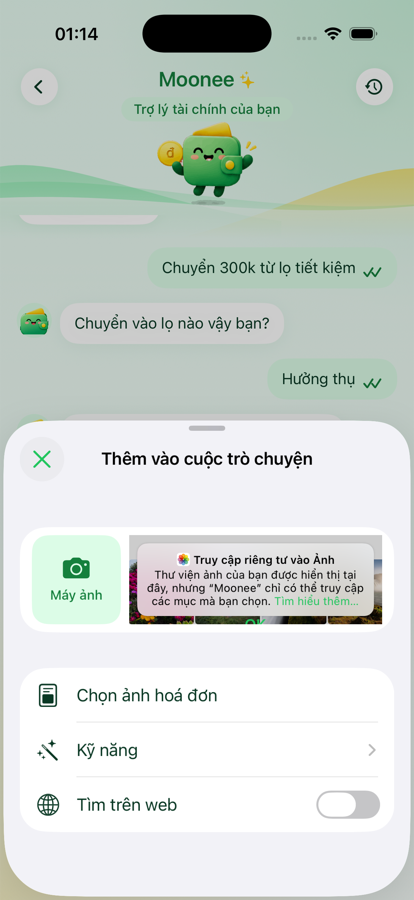
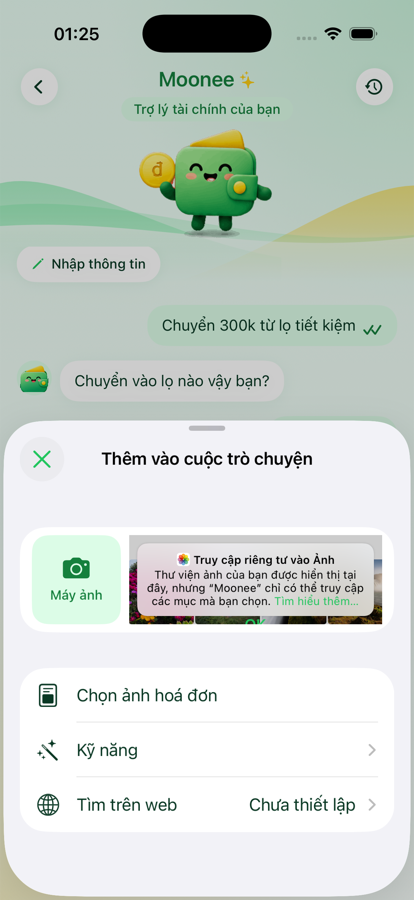
Chat: use S3's search/effort/skills API (#26), drop the shim
- Assistant gets the user's skills (SkillCatalog(context)).
- Model chip: efforts from LLMSettings.supportedEffortsNow, choice in
  LLMSettings.effort (per provider + model).
- (+) sheet: S3's SkillsView; web search row shows S3's setup state and opens
  AI settings (search has no on/off switch of its own).
- No model: webSearch / marketPrice facts become Moonee text, and the search
  hits become source chips (ChatMessage.sources is [SearchHit]).

diff --git a/Moonee/Features/Chat/ChatComposer.swift b/Moonee/Features/Chat/ChatComposer.swift
@@ -121,17 +121,19 @@ struct ChatComposer: View {
 /// "DeepSeek · Medium": the model answering, with its reasoning effort. Tap to change the effort or the model.
 struct ModelChip: View {
     let onChangeModel: () -> Void
-    @AppStorage(LLMSettings.effortKey) private var effortRaw = ReasoningEffort.medium.rawValue
+    /// Effort is stored per provider + model (`LLMSettings.effort`); bumped to redraw after a change.
+    @State private var changes = 0
     // Read so the chip updates when AI settings change.
     @AppStorage(LLMSettings.modeKey) private var modeRaw = ""
     @AppStorage(LLMSettings.cloudKey) private var cloudRaw = ""
 
     var body: some View {
-        let efforts = Self.efforts
+        let efforts = LLMSettings.supportedEffortsNow
+        let effort = Binding(get: { LLMSettings.effort }, set: { LLMSettings.effort = $0; changes += 1 })
         Menu {
             if !efforts.isEmpty {
-                Picker(selection: $effortRaw) {
-                    ForEach(efforts, id: \.self) { Text(Self.title($0)).tag($0.rawValue) }
+                Picker(selection: effort) {
+                    ForEach(efforts, id: \.self) { Text(Self.title($0)).tag($0) }
                 } label: { Text("Effort", tableName: "Chat") }
                 .pickerStyle(.inline)
             }
@@ -154,17 +156,8 @@ struct ModelChip: View {
     }
 
     private var label: String {
-        let effort = ReasoningEffort(rawValue: effortRaw) ?? .medium
-        return Self.efforts.isEmpty ? Self.modelName : "\(Self.modelName) · \(Self.title(effort))"
-    }
-
-    static var efforts: [ReasoningEffort] {
-        switch LLMSettings.mode {
-        case .byok, .hybrid:
-            let p = LLMSettings.cloudProvider
-            return supportedEfforts(provider: p, model: LLMSettings.model(p))
-        case .onDevice, .local: return []
-        }
+        _ = changes
+        return LLMSettings.supportedEffortsNow.isEmpty ? Self.modelName : "\(Self.modelName) · \(Self.title(LLMSettings.effort))"
     }
 
     static var modelName: String {
@@ -195,11 +188,10 @@ struct ModelChip: View {
     }
 }
 
-/// "Add to chat": camera and recent photos (system picker, no library permission needed), receipt photo, skills, web search.
+/// "Add to chat": camera and recent photos (system picker, no library permission needed), receipt photo, skills, web search settings.
 struct AddToChatSheet: View {
     let onImage: (UIImage) -> Void
     @Environment(\.dismiss) private var dismiss
-    @AppStorage(LLMSettings.webSearchKey) private var webSearch = false
     @State private var item: PhotosPickerItem?
     @State private var showLibrary = false
     @State private var showCamera = false
@@ -236,8 +228,13 @@ struct AddToChatSheet: View {
                     NavigationLink { SkillsView() } label: {
                         Label { Text("Skills", tableName: "Chat") } icon: { Image(systemName: "wand.and.stars") }
                     }
-                    Toggle(isOn: $webSearch) {
-                        Label { Text("Web search", tableName: "Chat") } icon: { Image(systemName: "globe") }
+                    // Search turns on in AI settings (a provider with built-in search, or a Tavily / Brave key).
+                    NavigationLink { AISettingsView() } label: {
+                        LabeledContent {
+                            SearchSettings.backend() == nil ? Text("Not set up", tableName: "Chat") : Text("On", tableName: "Chat")
+                        } label: {
+                            Label { Text("Web search", tableName: "Chat") } icon: { Image(systemName: "globe") }
+                        }
                     }
                 }
                 .foregroundStyle(Color.ink)
@@ -271,19 +268,18 @@ struct AddToChatSheet: View {
 
 /// Where a web answer came from: site · time, opening the page.
 struct SourceChips: View {
-    let sources: [WebSource]
+    let sources: [SearchHit]
 
     var body: some View {
         ScrollView(.horizontal, showsIndicators: false) {
             HStack(spacing: 6) {
-                ForEach(sources, id: \.url) { s in
-                    Link(destination: s.url) {
+                ForEach(sources.filter { URL(string: $0.url) != nil }, id: \.url) { s in
+                    Link(destination: URL(string: s.url)!) {
                         HStack(spacing: 4) {
                             Image(systemName: "globe").font(.caption)
-                            Text(s.site.isEmpty ? (s.url.host() ?? s.title) : s.site).lineLimit(1)
-                            if let date = s.date {
-                                Text(verbatim: "·")
-                                Text(date, format: .relative(presentation: .named)).lineLimit(1)
+                            Text(Self.site(s)).lineLimit(1)
+                            if let date = s.date, !date.isEmpty {
+                                Text(verbatim: "· \(date)").lineLimit(1) // as the source gives it ("2 hours ago", "2026-11-05")
                             }
                         }
                         .font(.chip)
@@ -297,5 +293,11 @@ struct SourceChips: View {
             }
         }
         .accessibilityLabel(Text("Sources", tableName: "Chat"))
+    }
+
+    /// "vnexpress.net" from the page URL.
+    static func site(_ s: SearchHit) -> String {
+        guard let host = URL(string: s.url)?.host() else { return s.title }
+        return host.hasPrefix("www.") ? String(host.dropFirst(4)) : host
     }
 }

diff --git a/Moonee/Features/Chat/ChatBook.swift b/Moonee/Features/Chat/ChatBook.swift
@@ -12,7 +12,7 @@ import SwiftUI
     var undone: Bool = false
     /// JSON `[ChatCardLine]`: what the card showed when it was undone, since its txns are deleted.
     var undoneLines: Data?
-    /// JSON `[WebSource]`: the pages a web-search answer came from, shown as chips under the bubble.
+    /// JSON `[SearchHit]`: the pages a web-search answer came from, shown as chips under the bubble.
     var sourcesData: Data?
     @Relationship(deleteRule: .nullify, inverse: \Txn.chatMessage) var txns: [Txn]? = []
     /// The conversation it belongs to (inverse declared on `ChatThread.messages`).
@@ -24,8 +24,8 @@ import SwiftUI
         self.date = date
     }
 
-    var sources: [WebSource] {
-        get { sourcesData.flatMap { try? JSONDecoder().decode([WebSource].self, from: $0) } ?? [] }
+    var sources: [SearchHit] {
+        get { sourcesData.flatMap { try? JSONDecoder().decode([SearchHit].self, from: $0) } ?? [] }
         set { sourcesData = newValue.isEmpty ? nil : try? JSONEncoder().encode(newValue) }
     }
 
@@ -247,12 +247,33 @@ struct ChatCardLine: Codable, Equatable {
             case "splitIncome":
                 let rows = (o["jars"] as? [[String: Any]] ?? []).map { "• \(s("name", $0)) (\(s("percent", $0))): **\(s("amount", $0))**" }
                 return ([String(localized: "Here's how **\(s("amount"))** splits into your jars:", table: "Chat")] + rows).joined(separator: "\n")
+            case "webSearch":
+                guard o["configured"] as? Bool == true else {
+                    return String(localized: "Web search isn't set up yet. Add a Tavily or Brave key in Account › AI assistant, or use a provider with built-in search.", table: "Chat")
+                }
+                if let summary = o["summary"] as? String, !summary.isEmpty { return summary }
+                let hits = (o["results"] as? [[String: Any]] ?? []).prefix(3).map { "• **\(s("title", $0))**" }
+                guard !hits.isEmpty else { return String(localized: "Moonee searched the web but found nothing useful.", table: "Chat") }
+                return ([String(localized: "Here's what Moonee found on the web:", table: "Chat")] + hits).joined(separator: "\n")
+            case "marketPrice":
+                let prices = (o["prices"] as? [[String: Any]] ?? []).map { s("price", $0) }.filter { !$0.isEmpty }
+                guard !prices.isEmpty else { continue }
+                var text = "**\(s("coin").capitalized) (\(s("symbol").uppercased()))**: " + prices.joined(separator: " · ")
+                if !s("source").isEmpty { text += "\n" + String(localized: "Source: \(s("source"))", table: "Chat") }
+                return text
             case "savingsPlan":
                 return String(localized: "Put aside **\(s("perWeek"))** a week (**\(s("perMonth"))** a month) to reach \(s("target")) by \(s("deadline")).", table: "Chat")
             default: continue
             }
         }
         return nil
+    }
+
+    /// The pages behind a web-search fact, for the source chips.
+    nonisolated static func sources(_ facts: [Assistant.ToolResult]) -> [SearchHit] {
+        facts.filter { $0.tool == "webSearch" }
+            .compactMap { try? JSONDecoder().decode(SearchResult.self, from: Data($0.json.utf8)) }
+            .flatMap(\.results)
     }
 
     nonisolated private static func periodName(_ raw: String) -> String {

diff --git a/MooneeTests/ChatTests.swift b/MooneeTests/ChatTests.swift
@@ -291,4 +291,37 @@ import Testing
         let long = ChatThreads.title(from: "tháng này mình đã chi bao nhiêu cho ăn uống và cafe vậy Moonee")
         #expect(long.count <= 41 && long.hasSuffix("…") && !long.dropLast().hasSuffix(" "))
     }
+
+    // MARK: Web answers without a model
+
+    @Test func webSearchFactsBecomeTextAndSourceChips() throws {
+        let found = SearchResult(configured: true, source: "Tavily", searchedAt: "2026-11-06T09:00:00Z",
+                                 results: [.init(title: "Giá vàng SJC hôm nay", url: "https://www.vnexpress.net/gia-vang", text: "…", date: "2 hours ago"),
+                                           .init(title: "SJC", url: "https://sjc.com.vn", text: "…")])
+        let facts = [Assistant.ToolResult(tool: "webSearch", json: String(decoding: try JSONEncoder().encode(found), as: UTF8.self))]
+        #expect(ChatBook.factsText(facts)?.contains("**Giá vàng SJC hôm nay**") == true)
+        #expect(ChatBook.sources(facts).map(\.url) == ["https://www.vnexpress.net/gia-vang", "https://sjc.com.vn"])
+        #expect(SourceChips.site(ChatBook.sources(facts)[0]) == "vnexpress.net")
+
+        let off = SearchResult(configured: false, searchedAt: "2026-11-06T09:00:00Z", message: "Web search is not set up.")
+        let offFacts = [Assistant.ToolResult(tool: "webSearch", json: String(decoding: try JSONEncoder().encode(off), as: UTF8.self))]
+        #expect(ChatBook.factsText(offFacts)?.contains("Tavily") == true)
+        #expect(ChatBook.sources(offFacts).isEmpty)
+    }
+
+    @Test func marketPriceFactsShowEveryPrice() throws {
+        let q = MarketPrices.Quote(symbol: "btc", coin: "bitcoin", prices: [.init(currency: "VND", price: "2.500.000.000 ₫"), .init(currency: "USD", price: "$98,000")])
+        let text = ChatBook.factsText([.init(tool: "marketPrice", json: String(decoding: try JSONEncoder().encode(q), as: UTF8.self))])
+        #expect(text?.hasPrefix("**Bitcoin (BTC)**: 2.500.000.000 ₫ · $98,000") == true)
+        #expect(text?.contains("CoinGecko") == true)
+    }
+
+    @Test func messagesKeepTheirSources() {
+        let m = ChatMessage(fromUser: false, text: "")
+        #expect(m.sourcesData == nil)
+        m.sources = [.init(title: "A", url: "https://a.vn", text: "")]
+        #expect(m.sources.map(\.url) == ["https://a.vn"])
+        m.sources = []
+        #expect(m.sourcesData == nil)
+    }
 }

diff --git a/Moonee/Features/Chat/ChatView.swift b/Moonee/Features/Chat/ChatView.swift
@@ -239,16 +239,17 @@ struct ChatView: View {
         pending = nil
 
         busy = true
-        let assistant = Assistant(router: LLMSettings.router(), tools: MooneeTools(ledger: StoreLedger(context)))
+        let assistant = Assistant(router: LLMSettings.router(), tools: MooneeTools(ledger: StoreLedger(context)), catalog: SkillCatalog(context))
         Task {
             let out = await assistant.handle(input, history: history, context: parser)
             withAnimation { busy = false }
             switch out {
             case .transactions(let txns, _): record(txns, source: source, raw: input)
-            // ponytail: S3's web answers will hand their pages over here as `sources`.
+            // ponytail: a model's answer doesn't carry the pages it searched yet; only the no-model path shows source chips.
             case .answer(let answer, _): reply(answer, mood: .happy)
             case .facts(let facts, _):
-                if let t = ChatBook.factsText(facts) { reply(t, mood: .happy) } else { reply(Self.confused, mood: .confused) }
+                if let t = ChatBook.factsText(facts) { reply(t, mood: .happy, sources: ChatBook.sources(facts)) }
+                else { reply(Self.confused, mood: .confused) }
             }
         }
     }
@@ -289,7 +290,7 @@ struct ChatView: View {
         }
     }
 
-    private func reply(_ text: String, mood: MooneeMood, sources: [WebSource] = []) {
+    private func reply(_ text: String, mood: MooneeMood, sources: [SearchHit] = []) {
         let m = ChatMessage(fromUser: false, text: text)
         m.sources = sources
         post(m)

diff --git a/CLAUDE.md b/CLAUDE.md
@@ -23,7 +23,7 @@ MLX compiles Metal shaders: a fresh machine needs `xcodebuild -downloadComponent
 - `Moonee/Features/QuickInput` — engines only, no screen: `QuickParser` (rule parser for every language in `Lexicon.all`: 7 kinds, several per message, currency-aware, returns plain `ParsedTxn`), `ReceiptScanner` (Vision OCR), `SpeechInput` (vi-VN dictation).
 - `Moonee/Resources/Locales/<lang>/` — per-language parse dictionary (`Lexicon+<lang>.swift`), persona `moonee.<lang>.md` and skill files `<skill>.<lang>.md` (full part, then `<!-- short -->` part for small models). File names must be unique: the bundle is flat.
 - `Moonee/Core/StoreLedger.swift` — `StoreLedger(context)`: the SwiftData books as `LedgerReading` (snapshot, for `MooneeTools`/any screen); `ParserContext(context)` (wallets, jar/category names, merchant rules); `Category/Jar.parserKey` (key, or `*.custom.<name>` for user-made ones).
-- `Moonee/Features/Chat` — the Moonee tab: `ChatView` (calls `Assistant.handle`), `ChatBook` (ParsedTxn → `Txn` save + `allocate`, undo (also drops a debt it emptied), asks back for a missing amount, transfer wallet or jar (`Lookup.unresolved` + `fill`), receipt OCR → expense, tool facts → text), `ChatMessage` (@Model; `txns` ↔ `Txn.chatMessage`, `thread`, web `sources`), `ChatThread` + `ChatThreads` (one thread per day, manual new chat, migration, history sections), `ChatHistoryView`, `ChatComposer` (idle pill / typing card, hold to talk, `ModelChip` effort menu, `AddToChatSheet`), `S3Shim` (stand-ins for S3's effort/skills/web API: delete when S3's PR lands), `TxnEditForm` lives in `Features/Transactions` (shared with the ledger).
+- `Moonee/Features/Chat` — the Moonee tab: `ChatView` (calls `Assistant.handle`), `ChatBook` (ParsedTxn → `Txn` save + `allocate`, undo (also drops a debt it emptied), asks back for a missing amount, transfer wallet or jar (`Lookup.unresolved` + `fill`), receipt OCR → expense, tool facts → text), `ChatMessage` (@Model; `txns` ↔ `Txn.chatMessage`, `thread`, web `sources` as `[SearchHit]`), `ChatThread` + `ChatThreads` (one thread per day, manual new chat, migration, history sections), `ChatHistoryView`, `ChatComposer` (idle pill / typing card, hold to talk, `ModelChip` effort menu, `AddToChatSheet`); web-search / market facts → text and source chips (`ChatBook.factsText`, `ChatBook.sources`), `TxnEditForm` lives in `Features/Transactions` (shared with the ledger).
 - `Moonee/Features/Import/StatementCSV.swift` — bank statement CSV parsing → `ImportDraft`.
 - `Moonee/Features/Budget` — Budget tab (spec §4.1–4.3): `BudgetView` (3 segments) + `JarsSection` (jar cards, jar detail, `JarTransferSheet`), `BillsSection` (`RecurringForm`, "Paid"), `BudgetActions` (every Budget write: `moveBetweenJars`, `payCard`, `markPaid`, percent validation), `Reminders` (pure `ReminderPlanner` + local-notification scheduler, attached once in `RootView` via `.reminderScheduling()`), `ReminderSettingsView`. Strings: `Budget.xcstrings` via `loc("…")`. Debug: launch with `-budgetDemo` (empty store) and `-budgetSegment wallets|bills`.
 - `Moonee/Features/Account` — Account tab (spec §6): `ProfileForm`/`AvatarPicker` (reused by onboarding; avatars `avatar.*`), `SecurityView` + `.appLock()` (Face ID lock, App Switcher cover; keys `Prefs.appLock`…), `LanguageCurrencyView`, `DataView` (`CSVExport`, `DataReset.deleteAll`). Strings in `Account.xcstrings` (also used by `AISettingsView`).
